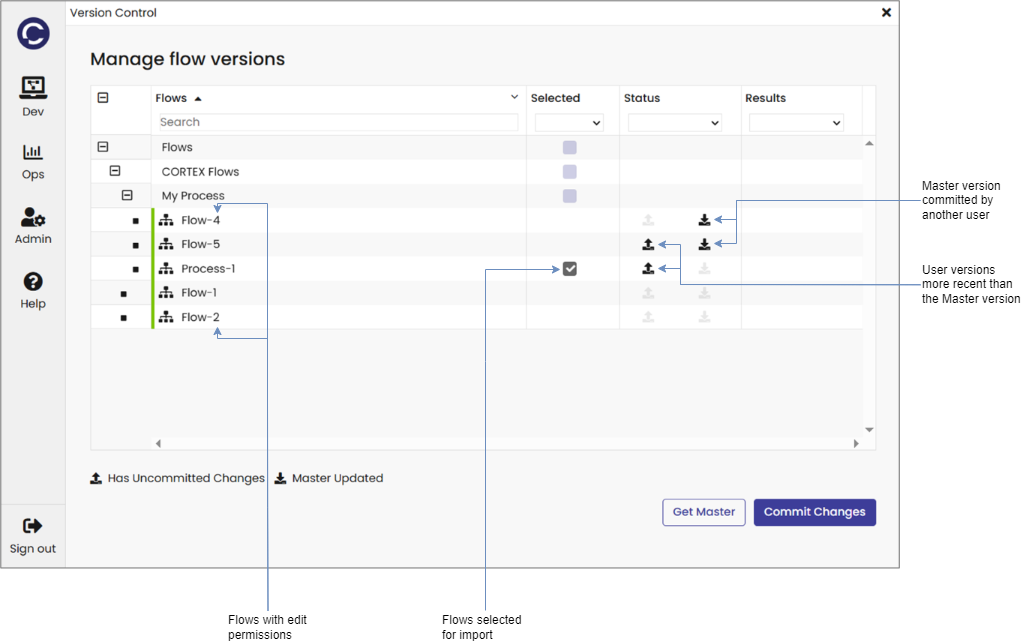
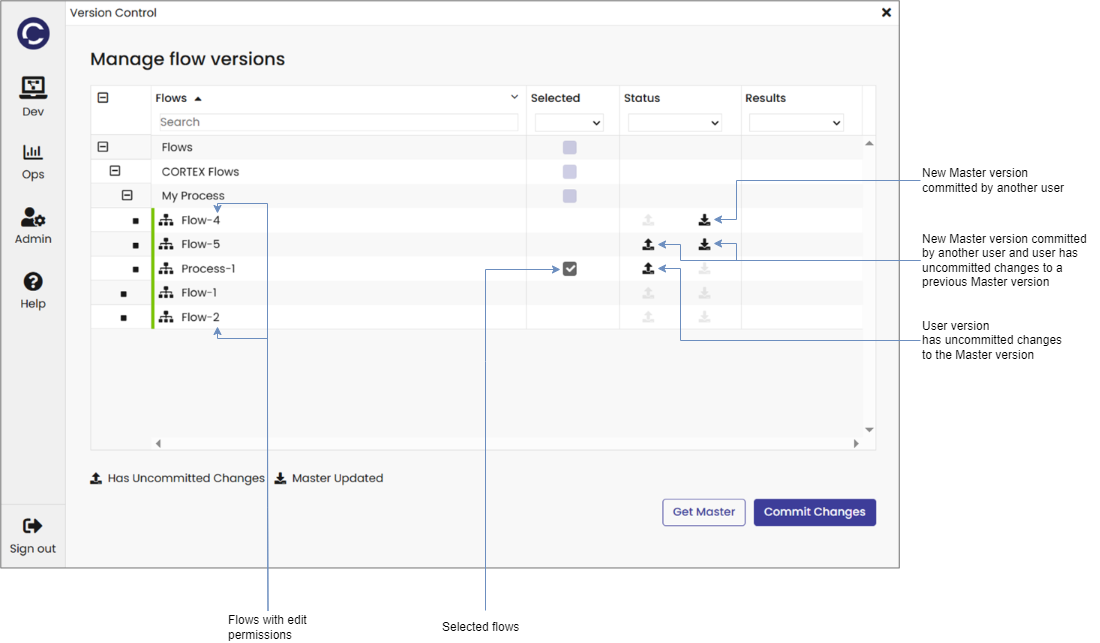
Updated Version Control following PO review and behaviour verification

diff --git a/layouts/partials/toc.html b/layouts/partials/toc.html
@@ -1,0 +1,6 @@
+{{ partial "page-meta-links.html" . }}
+{{ if not .Params.notoc }}
+{{ with .TableOfContents }}
+{{ . }}
+{{ end }}
+{{ end }}

diff --git a/content/en/docs/2025.3/Guides/user-guides/user-interfaces/gateway/Admin/version-control.md b/content/en/docs/2025.3/Guides/user-guides/user-interfaces/gateway/Admin/version-control.md
@@ -1,7 +1,7 @@
 ---
 title: "Version Control"
 linkTitle: "Version Control"
-description: "This section includes user guides related to Version Control in {{% ctx %}} Gateway."
+description: "Displays the flow hierarchy for the current user indicating whether the flows are the same as or differ from the Master Repository."
 weight: 90
 ---
 
@@ -9,11 +9,7 @@ weight: 90
 
 ## Summary
 
-The Version Control feature displays the Group hierarchy of the flows for the current user, identifying whether the current user’s flows, stored in the user’s sandbox repository, are up to date with the Master Versions, stored in the Master Repository.
-
-|                              |                                                                 |
-|------------------------------|-----------------------------------------------------------------|
-| **Roles Required:**          | Admin                                                           |
+The Version Control page displays the flow hierarchy for the current user, indicating whether the current user’s flows, stored in the user’s repository, are the same as or differ from the Master Versions, stored in the Master Repository.
 
 ## Anatomy
 
@@ -21,21 +17,32 @@ The Version Control feature displays the Group hierarchy of the flows for the cu
 
 Only flows with Edit permissions for the current user are displayed in the Version Control grid.
 
-Any flow versions, in the user’s repository, that are ahead of the Master Version, in the Master Repository, are indicated by an upward pointing arrow, and may be selected to be Committed as the Master Version by using the `Commit Changes` button.
+## Actions
 
-Any flow Master Versions that have been Committed to the Master Repository by another user are indicated by a downward pointing arrow, and may be selected to be retrieved from the Master Repository and stored in the user’s repository using the `Get Master` button.
+### Get Master
+
+Any flows that have been committed to the Master Repository by another user are indicated by a downward pointing arrow [Add image here]. These newer Master Versions may be pulled into the user’s repository by selecting them and clicking the `Get Master` button; if `Get Master` is selected for a flow that also has user uncommitted changes, these changes will be lost and the flow will be overwritten with the Master Version from the Master Repository.
+
+See the [Use Version Control][Use Version Control tutorial] tutorial for a step-by-step guide.
+
+### Commit Changes
+
+Any flows in the user’s repository that have uncommitted changes are indicated by an upward pointing arrow [Add image here]. These flows may be committed to the Master Repository by selecting them and clicking the `Commit Changes` button; if any flows selected to be committed have a new Master Version committed by another user a dialog will be displayed prompting conflicts to be resolved by taking either the version to be committed (`Take your version`) or `Take master version` resulting in a `Get Master` being performed.
+
+See the [Use Version Control][Use Version Control tutorial] tutorial for a step-by-step guide.
 
 ## Remarks
 
 ### Known Limitations
 
+* There is no prompt to resolve conflicts when getting the Master Version of a flow that has uncommitted user changes.
 * It is necessary for the parent groups to have edit permissions in addition to the flows, to enable the display of the flows in Version Control.
 
 ## See Also
 
 ### Related Concepts
 
-TODO
+None
 
 ### Related Tutorials
 

diff --git a/content/en/docs/2025.3/Tutorials/Administration/studio-import.md b/content/en/docs/2025.3/Tutorials/Administration/studio-import.md
@@ -10,3 +10,8 @@ weight: 50
 ## Import Individual Flows
 
 {{< scribe title="How_to_use_Studio_Import_to_Import_Individual_Flows" id="kNzevcaURRexdsZKtpg_Ew" >}}
+
+## Test 1
+
+{{< scribe title="How_to_use_Studio_Import_to_Import_Individual_Flows" id="kNzevcaURRexdsZKtpg_Ew" >}}
+

diff --git a/content/en/docs/2025.3/Tutorials/Administration/version-control.md b/content/en/docs/2025.3/Tutorials/Administration/version-control.md
@@ -1,7 +1,7 @@
 ---
 title: "Version Control"
 linkTitle: "Version Control"
-description: "This section includes tutorials about using Version Control."
+description: "Shows how to use Version Control feature."
 weight: 150
 ---
 
